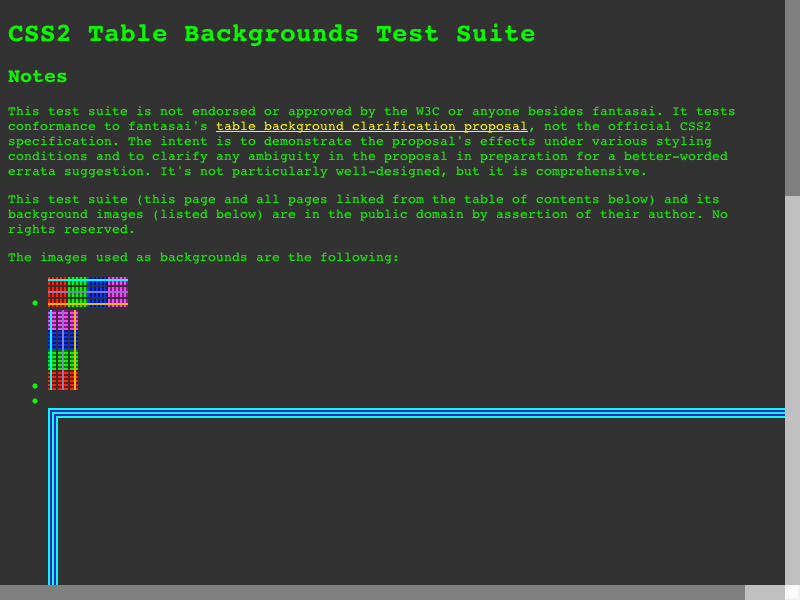
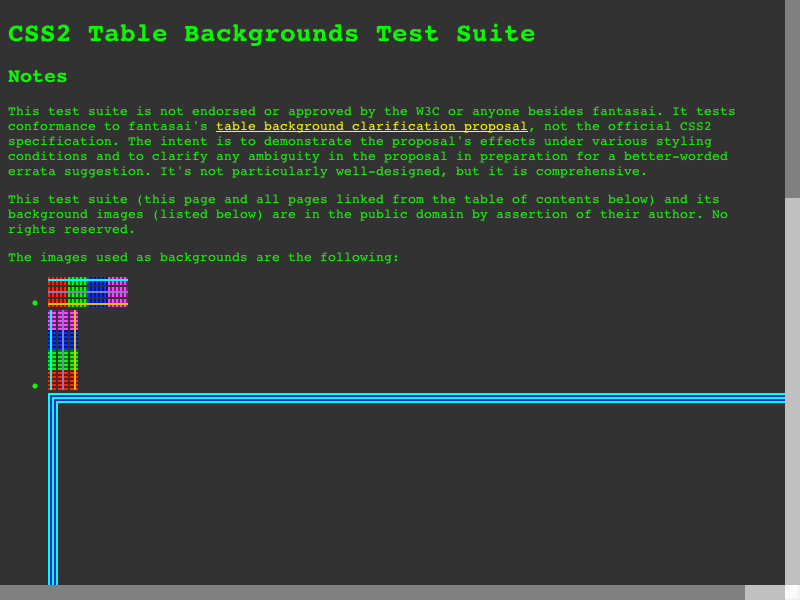
Merged r152793.  <rdar://problem/14152444>
git-svn-id: http://svn.webkit.org/repository/webkit/branches/safari-537-branch@152997 268f45cc-cd09-0410-ab3c-d52691b4dbfc

Changed region(s): [[0.0312, 0.63, 1.0, 0.72]]

diff --git a/LayoutTests/fast/css/empty-span-with-parent-div-and-vertical-align.html b/LayoutTests/fast/css/empty-span-with-parent-div-and-vertical-align.html
@@ -1,0 +1,18 @@
+<!DOCTYPE html>
+<html>
+<head>
+  <style>
+    .va {
+      width: 30px;
+      background: green;
+      vertical-align: 100px;
+    }
+  </style>
+</head>
+<body>
+  <div>This tests that no new line is added for the input, when the child inline element is empty.</div>
+  <div class="va">
+    <span></span><input type="submit">
+  </div>
+</body>
+</html>

diff --git a/LayoutTests/fast/css/empty-span-with-parent-div-and-vertical-align-expected.html b/LayoutTests/fast/css/empty-span-with-parent-div-and-vertical-align-expected.html
@@ -1,0 +1,17 @@
+<!DOCTYPE html>
+<html>
+<head>
+  <style>
+    .va { 
+      width: 30px; 
+      background: green; 
+    }
+  </style>
+</head>
+<body>
+  <div>This tests that no new line is added for the input, when the child inline element is empty.</div>
+  <div class="va">
+    <input type="submit">
+  </div>
+</body>
+</html>

diff --git a/Source/WebCore/rendering/RenderBlockLineLayout.cpp b/Source/WebCore/rendering/RenderBlockLineLayout.cpp
@@ -3480,21 +3480,30 @@ InlineIterator RenderBlock::LineBreaker::nextSegmentBreak(InlineBidiResolver& re
     bool segmentAllowsOverflow = true;
 #endif
 
-    if (lBreak == resolver.position() && (!lBreak.m_obj || !lBreak.m_obj->isBR()) && segmentAllowsOverflow) {
-        // we just add as much as possible
-        if (blockStyle->whiteSpace() == PRE && !current.m_pos) {
-            lBreak.moveTo(last, last->isText() ? last->length() : 0);
-        } else if (lBreak.m_obj) {
-            // Don't ever break in the middle of a word if we can help it.
-            // There's no room at all. We just have to be on this line,
-            // even though we'll spill out.
-            lBreak.moveTo(current.m_obj, current.m_pos);
+    if (segmentAllowsOverflow) {
+        if (lBreak == resolver.position()) {
+            if (!lBreak.m_obj || !lBreak.m_obj->isBR()) {
+                // we just add as much as possible
+                if (blockStyle->whiteSpace() == PRE && !current.m_pos) {
+                    lBreak.moveTo(last, last->isText() ? last->length() : 0);
+                } else if (lBreak.m_obj) {
+                    // Don't ever break in the middle of a word if we can help it.
+                    // There's no room at all. We just have to be on this line,
+                    // even though we'll spill out.
+                    lBreak.moveTo(current.m_obj, current.m_pos);
+                }
+            }
+            // make sure we consume at least one char/object.
+            if (lBreak == resolver.position())
+                lBreak.increment();
+        } else if (!width.committedWidth() && (!current.m_obj || !current.m_obj->isBR()) && !current.m_pos) {
+            // Do not push the current object to the next line, when this line has some content, but it is still considered empty.
+            // Empty inline elements like <span></span> can produce such lines and now we just ignore these break opportunities
+            // at the start of a line, if no width has been committed yet.
+            // Behave as if it was actually empty and consume at least one object.
+            lBreak.increment();
         }
     }
-
-    // make sure we consume at least one char/object.
-    if (lBreak == resolver.position() && segmentAllowsOverflow)
-        lBreak.increment();
 
     // Sanity check our midpoints.
     checkMidpoints(lineMidpointState, lBreak);
@@ -3584,7 +3593,7 @@ void RenderBlock::checkLinesForTextOverflow()
             if (curr->lineCanAccommodateEllipsis(ltr, blockEdge, lineBoxEdge, width)) {
                 float totalLogicalWidth = curr->placeEllipsis(ellipsisStr, ltr, blockLeftEdge, blockRightEdge, width);
 
-                float logicalLeft = 0; // We are only intersted in the delta from the base position.
+                float logicalLeft = 0; // We are only interested in the delta from the base position.
                 float truncatedWidth = pixelSnappedLogicalRightOffsetForLine(curr->lineTop(), firstLine);
                 updateLogicalWidthForAlignment(textAlign, 0, logicalLeft, totalLogicalWidth, truncatedWidth, 0);
                 if (ltr)